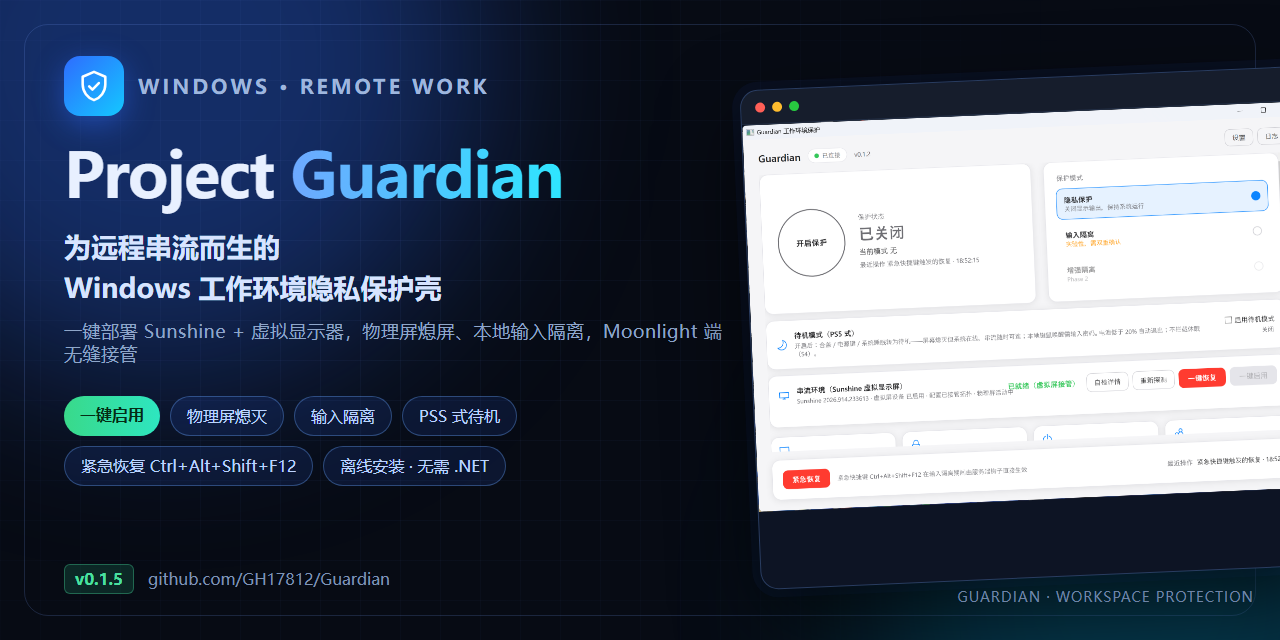
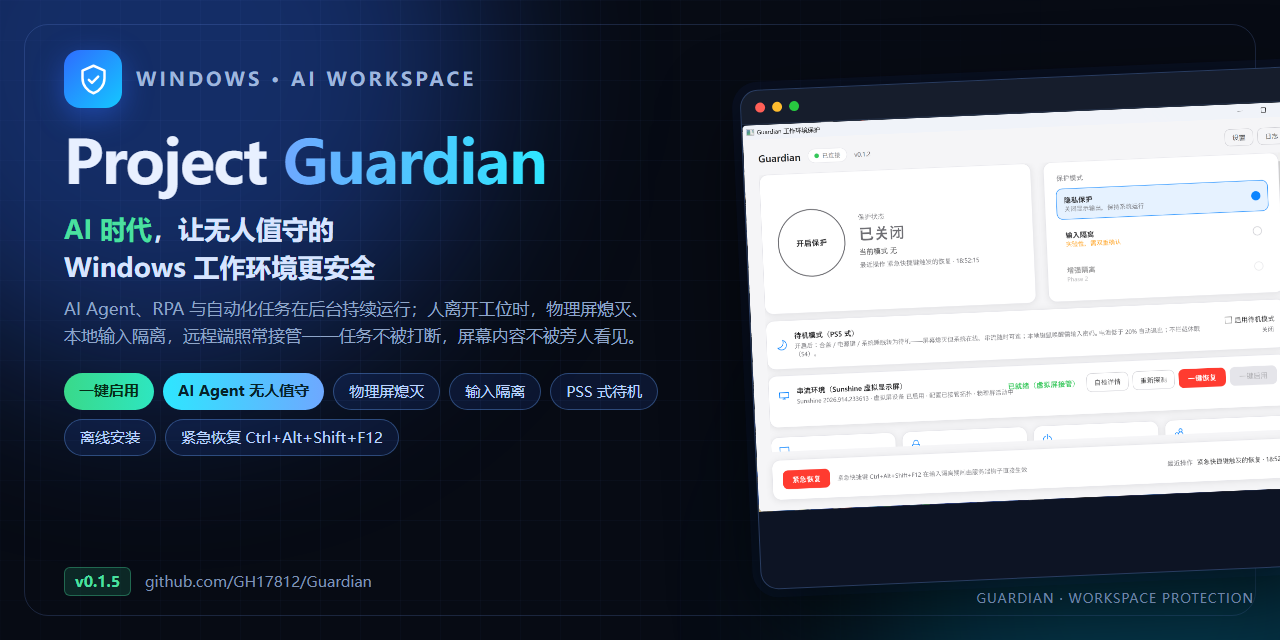
docs: 突出 AI 时代的无人值守保护定位，更新社交预览图

diff --git a/README.md b/README.md
@@ -1,8 +1,8 @@
 # Project Guardian
 
-**为远程串流而生的 Windows 工作环境隐私保护壳**
+**AI 时代，让无人值守的 Windows 工作环境更安全**
 
-离开工位时，物理屏幕自动熄灭、本地键鼠被隔离，远程端画面照常流畅——不用拔线，不用锁屏，也不用担心本地误触打断任务。
+AI Agent、RPA 与自动化任务在后台持续运行；人离开工位时，物理屏熄灭、本地键鼠被隔离，远程端画面照常流畅——任务不被打断，屏幕内容不被旁人看见。
 
 [![下载 v0.1.5](https://img.shields.io/badge/下载-v0.1.5%20离线完整版-2ea44f?style=for-the-badge)](https://github.com/GH17812/Guardian/releases/download/v0.1.5/Guardian-0.1.5.msi)
 ![平台](https://img.shields.io/badge/Windows-10%2F11%20x64-0078D4?style=flat-square)
@@ -14,6 +14,7 @@
 **它能做什么**
 
 - **一键部署**：自动安装 Sunshine、启用虚拟显示器并完成接管，远程端直接开播；一键恢复普通串流模式。
+- **无人值守保护**：AI Agent、RPA、编译渲染等长任务运行时自动熄屏并隔离本地输入，人不在也能安全运行。
 - **两种保护模式**：隐私保护只熄屏；输入隔离熄屏并隔离本地键鼠，避免误操作影响远程任务。
 - **PSS 式待机**：取代 Windows 休眠，屏幕熄灭但系统在线，维持最低串流需求；本地唤醒需密码。
 - **紧急恢复**：本地 `Ctrl+Alt+Shift+F12` 由服务端直接识别，不依赖界面，一键退出保护。
